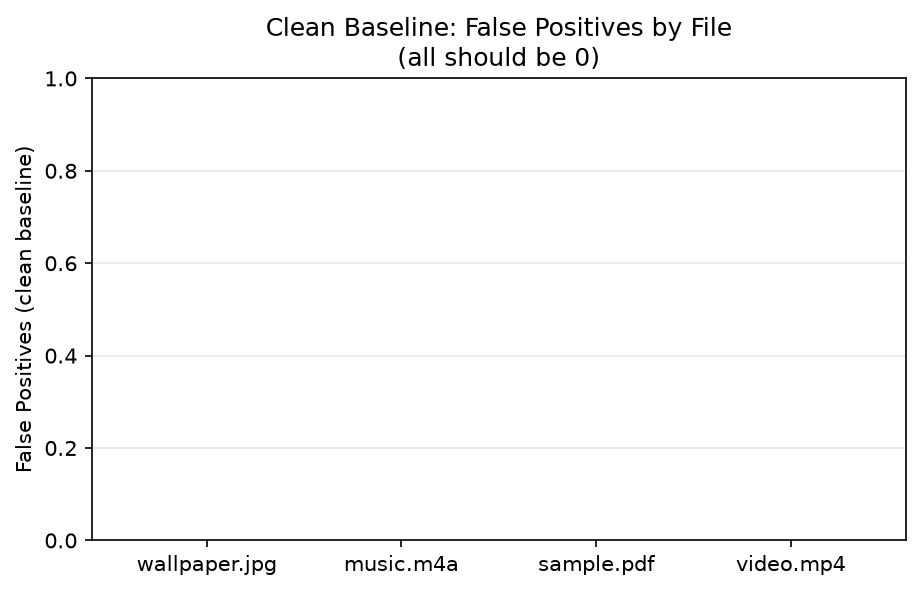
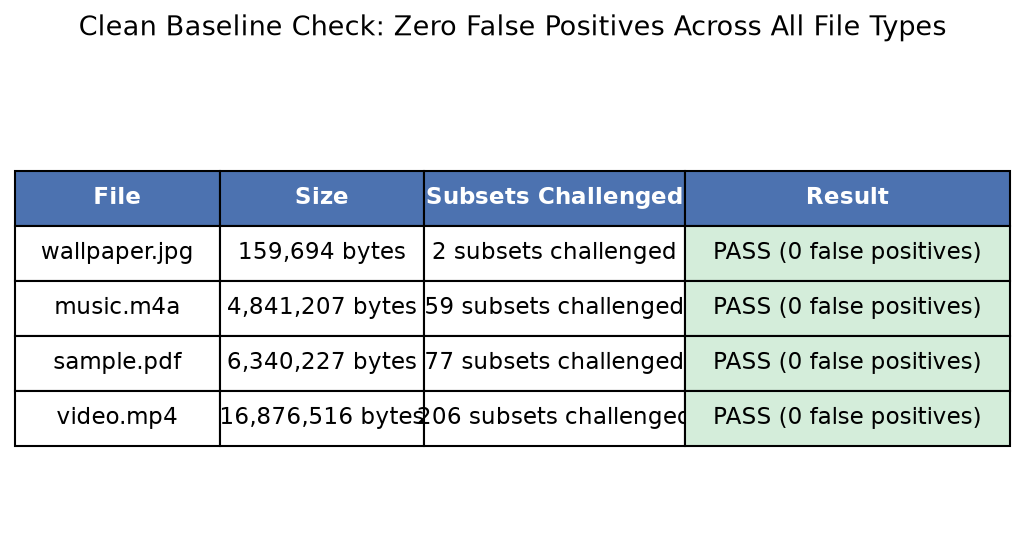
fix: dedupe validation log, fix broken false-positive chart, add 4 multi-file graphs

diff --git a/evaluation/fix_false_positive_chart.py b/evaluation/fix_false_positive_chart.py
@@ -1,0 +1,61 @@
+"""
+Standalone fix for the false-positive chart, which was broken
+(all-zero bars render as an empty plot). This replaces it with a
+clear table-style visualization showing exact numbers per file.
+
+Run this after evaluation/graph_generator_manual.py to regenerate
+just this one figure with the fix.
+"""
+
+import os
+import sys
+import pandas as pd
+import matplotlib.pyplot as plt
+
+sys.path.append(os.path.abspath(os.path.join(os.path.dirname(__file__), "..")))
+import config
+
+LOG_PATH = os.path.join(config.RESULTS_PROCESSED_DIR, "manual_validation_log.csv")
+
+df = pd.read_csv(LOG_PATH)
+baseline_df = df[df["mod_rate"] == 0].copy()
+
+fig, ax = plt.subplots(figsize=(8, 4))
+ax.axis("off")
+
+table_data = []
+for _, row in baseline_df.iterrows():
+    status = "PASS (0 false positives)" if row["false_positives"] == 0 else f"FAIL ({int(row['false_positives'])} false positives)"
+    table_data.append([
+        row["file"],
+        f"{int(row['file_size_bytes']):,} bytes",
+        f"{int(row['subsets_selected'])} subsets challenged",
+        status,
+    ])
+
+table = ax.table(
+    cellText=table_data,
+    colLabels=["File", "Size", "Subsets Challenged", "Result"],
+    cellLoc="center",
+    loc="center",
+    colWidths=[0.22, 0.22, 0.28, 0.35],
+)
+table.auto_set_font_size(False)
+table.set_fontsize(11)
+table.scale(1, 2.2)
+
+# Color the "Result" column green since all pass
+for i in range(1, len(table_data) + 1):
+    table[(i, 3)].set_facecolor("#d4edda")
+
+for j in range(4):
+    table[(0, j)].set_facecolor("#4C72B0")
+    table[(0, j)].set_text_props(color="white", weight="bold")
+
+ax.set_title("Clean Baseline Check: Zero False Positives Across All File Types",
+              fontsize=13, pad=20)
+
+out_path = os.path.join(config.GRAPH_DIR, "manual_false_positive_check.png")
+fig.savefig(out_path, dpi=150, bbox_inches="tight")
+plt.close(fig)
+print(f"Fixed and saved: {out_path}")

diff --git a/experiments/dedup_log.py b/experiments/dedup_log.py
@@ -1,0 +1,31 @@
+"""
+One-time cleanup: removes duplicate rows from
+results/processed/manual_validation_log.csv, keeping the first
+occurrence of each (file, mod_rate) combination. Prints what was
+removed so you can see exactly what changed.
+"""
+
+import os
+import sys
+import pandas as pd
+
+sys.path.append(os.path.abspath(os.path.join(os.path.dirname(__file__), "..")))
+import config
+
+LOG_PATH = os.path.join(config.RESULTS_PROCESSED_DIR, "manual_validation_log.csv")
+
+df = pd.read_csv(LOG_PATH)
+print(f"Rows before dedup: {len(df)}")
+
+duplicates = df[df.duplicated(subset=["file", "mod_rate"], keep="first")]
+if len(duplicates) > 0:
+    print(f"\nFound {len(duplicates)} duplicate row(s):")
+    print(duplicates[["file", "mod_rate"]].to_string(index=False))
+else:
+    print("\nNo duplicates found.")
+
+df_clean = df.drop_duplicates(subset=["file", "mod_rate"], keep="first")
+print(f"\nRows after dedup: {len(df_clean)}")
+
+df_clean.to_csv(LOG_PATH, index=False)
+print(f"\nSaved cleaned log to: {LOG_PATH}")

diff --git a/progress_log.md b/progress_log.md
@@ -296,3 +296,13 @@
 
 \- This closes the "only tested on one file" limitation - system now validated across 4 distinct file types spanning a 100x size range (160KB to 16.9MB).
 
+\### Multi-file graphs generated, bugs found and fixed
+
+\- Discovered manual\_validation\_log.csv had a duplicate sample.pdf/mod\_rate=0 row (accidental double-run). Built dedup\_log.py to clean it - confirmed 21 -> 20 rows, exactly the expected duplicate removed.
+
+\- Discovered false-positive chart was broken: since all false\_positive values are 0, a standard bar chart renders as an empty plot (zero-height bars are invisible) - technically correct data, but useless as a figure. Replaced with a clear table-style visualization showing file/size/subsets-challenged/PASS status instead.
+
+\- Generated 4 clean figures from the manual validation log: recall by file, efficiency by file, recall-efficiency tradeoff scatter (color=rate, shape=file), and the fixed false-positive table.
+
+\- All figures confirmed correct: wallpaper.jpg (smallest file, only 20 subsets) visibly diverges from the other 3 at high modification rates due to saturation - consistent with earlier finding, now visualized clearly.
+

diff --git a/CHANGELOG.md b/CHANGELOG.md
@@ -110,3 +110,15 @@
 
 \- Multi-file generalization validation - confirmed zero false positives and consistent recall/efficiency across 4 file types (JPG, M4A, PDF, MP4), 160KB-16.9MB size range
 
+
+
+\### Added
+
+\- Multi-file validation graphs (recall/efficiency by file, trade-off scatter, false-positive table)
+
+\### Fixed
+
+\- Duplicate row in manual\_validation\_log.csv (dedup\_log.py)
+
+\- Broken false-positive bar chart (zero-height bars invisible) - replaced with table visualization
+
